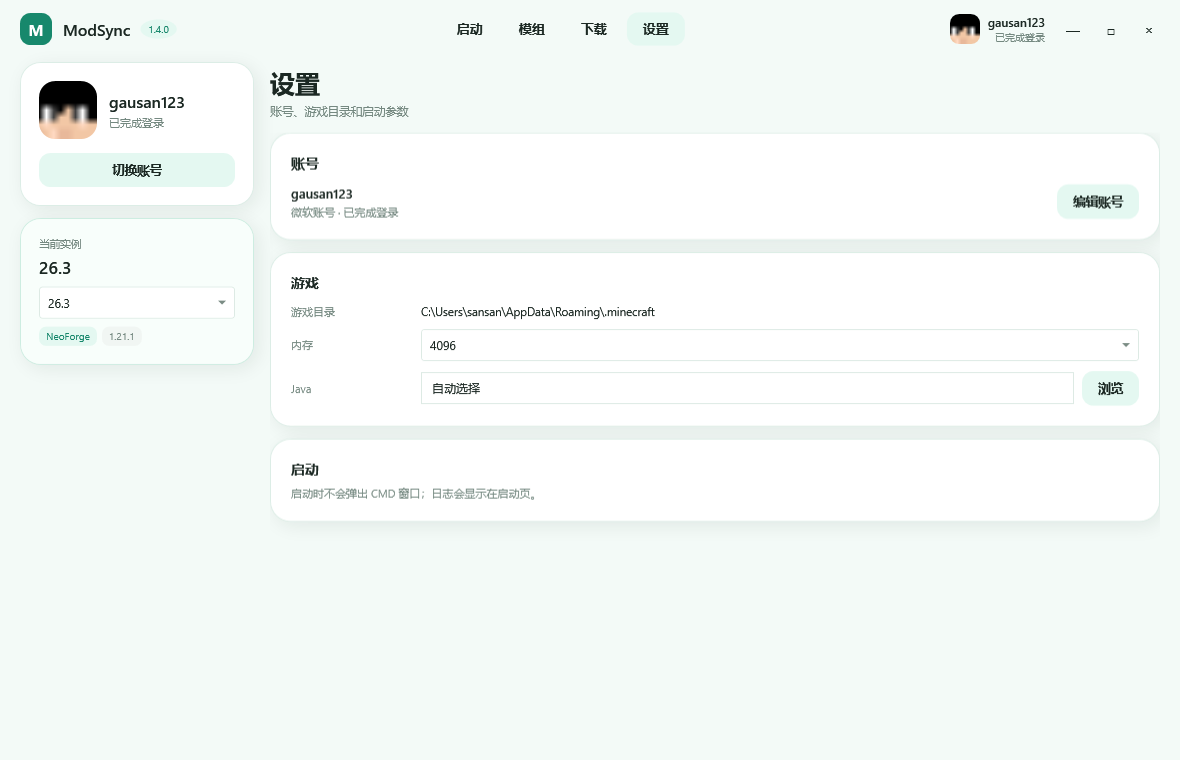
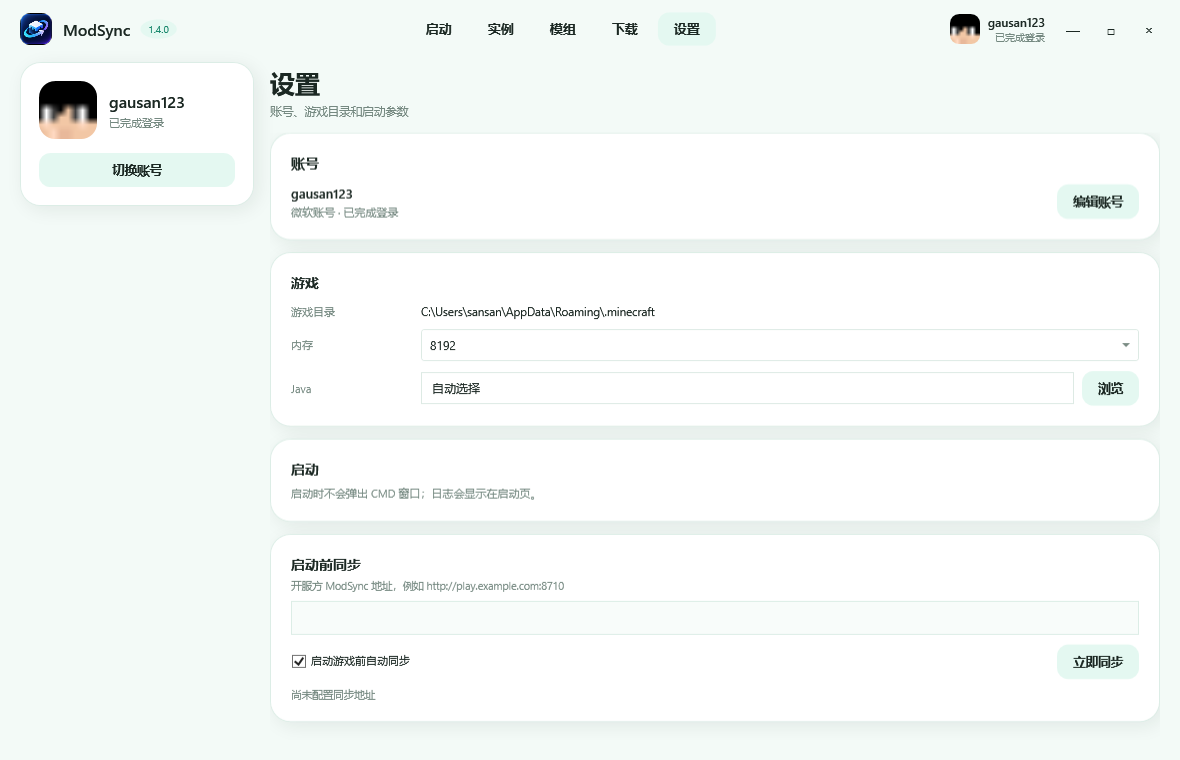
feat(launcher): instances, ModSync compatibility, pre-launch sync

diff --git a/launcher-wpf/ModernWindow.xaml b/launcher-wpf/ModernWindow.xaml
@@ -569,6 +569,25 @@
                                 <TextBlock Text="启动时不会弹出 CMD 窗口；日志会显示在启动页。" FontSize="11" Foreground="{StaticResource Muted}" Margin="0,8,0,0"/>
                             </StackPanel>
                         </Border>
+
+                        <Border Style="{StaticResource ModernCard}" Padding="20" Margin="0,12,0,0">
+                            <StackPanel>
+                                <TextBlock Text="启动前同步" FontSize="14" FontWeight="SemiBold"/>
+                                <TextBlock Text="开服方 ModSync 地址，例如 http://play.example.com:8710" FontSize="10.5"
+                                           Foreground="{StaticResource Muted}" Margin="0,5,0,8" TextWrapping="Wrap"/>
+                                <TextBox x:Name="SyncUrlBox" Height="34" Padding="10,6" VerticalContentAlignment="Center"
+                                         FontSize="11.5" BorderBrush="{StaticResource Line}" Background="#F8FCFA"
+                                         LostFocus="SyncSetting_Changed"/>
+                                <Grid Margin="0,10,0,0">
+                                    <CheckBox x:Name="AutoSyncBox" Content="启动游戏前自动同步" FontSize="11"
+                                              VerticalAlignment="Center" Checked="SyncSetting_Changed" Unchecked="SyncSetting_Changed"/>
+                                    <Button Style="{StaticResource SoftButton}" Content="立即同步" HorizontalAlignment="Right"
+                                            Click="SyncNow_Click"/>
+                                </Grid>
+                                <TextBlock x:Name="SyncStatus" Text="尚未配置同步地址" FontSize="10.5"
+                                           Foreground="{StaticResource Muted}" Margin="0,8,0,0" TextWrapping="Wrap"/>
+                            </StackPanel>
+                        </Border>
                     </StackPanel>
                 </ScrollViewer>
             </Grid>

diff --git a/launcher-wpf/ModernWindow.xaml.cs b/launcher-wpf/ModernWindow.xaml.cs
@@ -103,6 +103,9 @@ public partial class ModernWindow : Window
             2048 => 0, 4096 => 1, 6144 => 2, 8192 => 3, 12288 => 4, 16384 => 5, _ => 1,
         };
         JavaBox.Text = string.IsNullOrWhiteSpace(_settings.JavaPath) ? "自动选择" : _settings.JavaPath;
+        SyncUrlBox.Text = _settings.SyncUrl ?? "";
+        AutoSyncBox.IsChecked = _settings.AutoSync;
+        SyncStatus.Text = string.IsNullOrWhiteSpace(_settings.SyncUrl) ? "尚未配置同步地址" : "启动前会自动同步模组";
         _loadingSettings = false;
         UpdateHeroSettings();
         EnsureBundledModSync();
@@ -141,17 +144,28 @@ public partial class ModernWindow : Window
             ? Directory.GetFiles(modsDir).Where(f => f.EndsWith(".jar", StringComparison.OrdinalIgnoreCase) || f.EndsWith(".jar.disabled", StringComparison.OrdinalIgnoreCase)).ToList()
             : new List<string>();
         if (_sortAZ) files = files.OrderBy(Path.GetFileName, StringComparer.OrdinalIgnoreCase).ToList();
+        var supported = IsModSyncSupported(_activeVersion);
         var modsync = files.FirstOrDefault(f => Path.GetFileName(f).Contains("modsync", StringComparison.OrdinalIgnoreCase));
-        AddModRow("ModSync", "1.4.0", modsync == null ? "必装 · 未安装" : "必装 · 已安装", true, true, modsync);
+        if (supported)
+        {
+            AddModRow("ModSync", "1.4.0", modsync == null ? "必装 · 未安装" : "必装 · 已安装", true, true, modsync);
+        }
+        else
+        {
+            AddModRow("ModSync", "1.4.0", "当前版本不支持", false, true, null);
+        }
         foreach (var file in files.Where(f => !Path.GetFileName(f).Contains("modsync", StringComparison.OrdinalIgnoreCase)))
         {
             var enabled = file.EndsWith(".jar", StringComparison.OrdinalIgnoreCase);
             var name = Path.GetFileName(file).Replace(".jar.disabled", "").Replace(".jar", "");
             AddModRow(name, enabled ? "已启用" : "已禁用", enabled ? "普通" : "已禁用", false, enabled, file);
         }
-        ModCountText.Text = $"共 {files.Count + 1} 个模组 · 其中 ModSync 为必装";
-        InstalledCountText.Text = (files.Count + 1).ToString();
-        HeroModCount.Text = $"{files.Count + 1} 个模组";
+        var count = files.Count + (supported ? 1 : 0);
+        ModCountText.Text = supported
+            ? $"共 {count} 个模组 · 其中 ModSync 为必装"
+            : $"共 {count} 个模组 · 当前版本不支持 ModSync";
+        InstalledCountText.Text = count.ToString();
+        HeroModCount.Text = $"{count} 个模组";
     }
 
     private void AddModRow(string name, string version, string badge, bool required, bool enabled, string? filePath)
@@ -305,12 +319,29 @@ public partial class ModernWindow : Window
         }
     }
 
+    private static bool IsModSyncSupported(string version) =>
+        version.Equals("26.3", StringComparison.OrdinalIgnoreCase) ||
+        version.Equals("1.21.1", StringComparison.OrdinalIgnoreCase);
+
     private void EnsureBundledModSync()
     {
         try
         {
             var modsDir = ActiveModsDir;
             Directory.CreateDirectory(modsDir);
+            if (!IsModSyncSupported(_activeVersion))
+            {
+                foreach (var old in Directory.GetFiles(modsDir, "*modsync*.jar"))
+                {
+                    var name = Path.GetFileName(old);
+                    if (name.Equals("modsync-neoforge-26.3-1.4.0.jar", StringComparison.OrdinalIgnoreCase) ||
+                        name.Equals("modsync-neoforge-1.21.1-1.4.0.jar", StringComparison.OrdinalIgnoreCase))
+                    {
+                        try { File.Delete(old); } catch { }
+                    }
+                }
+                return;
+            }
             if (Directory.GetFiles(modsDir, "*modsync*.jar").Length > 0) return;
             var asset = _activeVersion.StartsWith("26.3", StringComparison.OrdinalIgnoreCase)
                 ? "pack://application:,,,/Assets/ModSync-26.3.jar"
@@ -329,6 +360,41 @@ public partial class ModernWindow : Window
         catch
         {
             // The mods page still shows ModSync as required if bundling fails.
+        }
+    }
+
+    private void SyncSetting_Changed(object sender, RoutedEventArgs e)
+    {
+        if (_loadingSettings) return;
+        _settings.SyncUrl = string.IsNullOrWhiteSpace(SyncUrlBox.Text) ? null : SyncUrlBox.Text.Trim();
+        _settings.AutoSync = AutoSyncBox.IsChecked == true;
+        AppSettingsStore.Save(_settings);
+        SyncStatus.Text = string.IsNullOrWhiteSpace(_settings.SyncUrl)
+            ? "尚未配置同步地址"
+            : (_settings.AutoSync ? "启动前会自动同步模组" : "已关闭自动同步");
+    }
+
+    private async void SyncNow_Click(object sender, RoutedEventArgs e)
+    {
+        SyncSetting_Changed(sender, e);
+        if (string.IsNullOrWhiteSpace(_settings.SyncUrl))
+        {
+            SyncStatus.Text = "请先填写 ModSync 同步地址";
+            return;
+        }
+        try
+        {
+            SyncStatus.Text = "正在同步模组…";
+            var report = await ModSyncHttpSync.SyncAsync(_settings.SyncUrl, ActiveModsDir,
+                message => Dispatcher.Invoke(() => SyncStatus.Text = message));
+            SyncStatus.Text = $"同步完成：新增 {report.Installed} 个，已存在 {report.Skipped} 个，失败 {report.Failed} 个";
+            LoadMods();
+            ShowToast("启动前同步完成");
+        }
+        catch (Exception ex)
+        {
+            SyncStatus.Text = "同步失败：" + ex.Message;
+            ShowToast("同步失败：" + ex.Message);
         }
     }
 
@@ -927,6 +993,22 @@ public partial class ModernWindow : Window
         try
         {
             var launchVersion = version;
+            if (!string.IsNullOrWhiteSpace(_settings.SyncUrl) && _settings.AutoSync)
+            {
+                LaunchStatus.Text = "启动前同步模组…";
+                try
+                {
+                    var syncReport = await ModSyncHttpSync.SyncAsync(_settings.SyncUrl, ActiveModsDir,
+                        message => Dispatcher.Invoke(() => LaunchStatus.Text = message));
+                    LaunchStatus.Text = $"同步完成，新增 {syncReport.Installed} 个模组";
+                    LoadMods();
+                }
+                catch (Exception syncError)
+                {
+                    LaunchStatus.Text = "同步失败，继续以普通启动器启动";
+                    ShowToast("同步失败：" + syncError.Message);
+                }
+            }
             if (_activeInstance?.Loader == "fabric")
             {
                 var fabricDir = Path.Combine(MinecraftLauncher.DefaultGameDir, "versions", _activeInstance.LoaderVersionId ?? "");

diff --git a/launcher-wpf/Services/ModSyncHttpSync.cs b/launcher-wpf/Services/ModSyncHttpSync.cs
@@ -1,0 +1,108 @@
+using System.IO;
+using System.Net.Http;
+using System.Security.Cryptography;
+using System.Text.Json;
+using System.Text.Json.Serialization;
+
+namespace ModSyncLauncher.Services;
+
+public sealed class SyncManifestFile
+{
+    [JsonPropertyName("file")] public string File { get; set; } = "";
+    [JsonPropertyName("size")] public long Size { get; set; }
+    [JsonPropertyName("sha256")] public string Sha256 { get; set; } = "";
+}
+
+public sealed class SyncManifest
+{
+    [JsonPropertyName("files")] public List<SyncManifestFile> Files { get; set; } = new();
+}
+
+public sealed class SyncReport
+{
+    public int Installed { get; set; }
+    public int Skipped { get; set; }
+    public int Failed { get; set; }
+}
+
+public static class ModSyncHttpSync
+{
+    private static readonly HttpClient Http = new() { Timeout = TimeSpan.FromMinutes(10) };
+
+    static ModSyncHttpSync()
+    {
+        Http.DefaultRequestHeaders.UserAgent.ParseAdd("ModSync-Launcher/0.1");
+        Http.DefaultRequestHeaders.Accept.ParseAdd("application/json");
+    }
+
+    public static async Task<SyncReport> SyncAsync(string url, string modsDir, Action<string> log,
+        CancellationToken ct = default)
+    {
+        var raw = (url ?? "").Trim();
+        if (string.IsNullOrWhiteSpace(raw)) throw new InvalidOperationException("没有填写同步地址");
+        string manifestUrl;
+        string baseUrl;
+        if (raw.EndsWith(".json", StringComparison.OrdinalIgnoreCase))
+        {
+            manifestUrl = raw;
+            baseUrl = raw[..raw.LastIndexOf('/')];
+        }
+        else
+        {
+            var trimmed = raw.TrimEnd('/');
+            if (!trimmed.Contains("/modsync", StringComparison.OrdinalIgnoreCase)) trimmed += "/modsync";
+            baseUrl = trimmed;
+            manifestUrl = trimmed + "/manifest.json";
+        }
+
+        log("读取 ModSync 模组清单…");
+        var json = await Http.GetStringAsync(manifestUrl, ct);
+        var manifest = JsonSerializer.Deserialize<SyncManifest>(json) ?? new SyncManifest();
+        Directory.CreateDirectory(modsDir);
+        var report = new SyncReport();
+        foreach (var file in manifest.Files)
+        {
+            ct.ThrowIfCancellationRequested();
+            var name = SafeName(file.File);
+            if (string.IsNullOrWhiteSpace(name)) continue;
+            var target = Path.Combine(modsDir, name);
+            if (File.Exists(target) && file.Size > 0 && new FileInfo(target).Length == file.Size)
+            {
+                report.Skipped++;
+                continue;
+            }
+            try
+            {
+                log($"下载 {name}…");
+                var downloadUrl = baseUrl + "/files/" + Uri.EscapeDataString(file.File);
+                var bytes = await Http.GetByteArrayAsync(downloadUrl, ct);
+                if (!string.IsNullOrWhiteSpace(file.Sha256))
+                {
+                    var actual = Convert.ToHexString(SHA256.HashData(bytes));
+                    if (!actual.Equals(file.Sha256, StringComparison.OrdinalIgnoreCase))
+                    {
+                        throw new InvalidDataException($"SHA-256 校验失败：{name}");
+                    }
+                }
+                var temp = target + ".sync";
+                await File.WriteAllBytesAsync(temp, bytes, ct);
+                File.Move(temp, target, true);
+                report.Installed++;
+                log($"已同步 {name}");
+            }
+            catch (Exception ex)
+            {
+                report.Failed++;
+                log($"同步失败 {name}：{ex.Message}");
+            }
+        }
+        return report;
+    }
+
+    private static string SafeName(string name)
+    {
+        var fileName = Path.GetFileName(name);
+        foreach (var c in Path.GetInvalidFileNameChars()) fileName = fileName.Replace(c, '_');
+        return fileName;
+    }
+}

diff --git a/launcher-wpf/Services/AppSettingsStore.cs b/launcher-wpf/Services/AppSettingsStore.cs
@@ -7,6 +7,8 @@ public sealed class AppSettings
 {
     public int MemoryMb { get; set; } = 4096;
     public string? JavaPath { get; set; }
+    public string? SyncUrl { get; set; }
+    public bool AutoSync { get; set; } = true;
 }
 
 public static class AppSettingsStore
